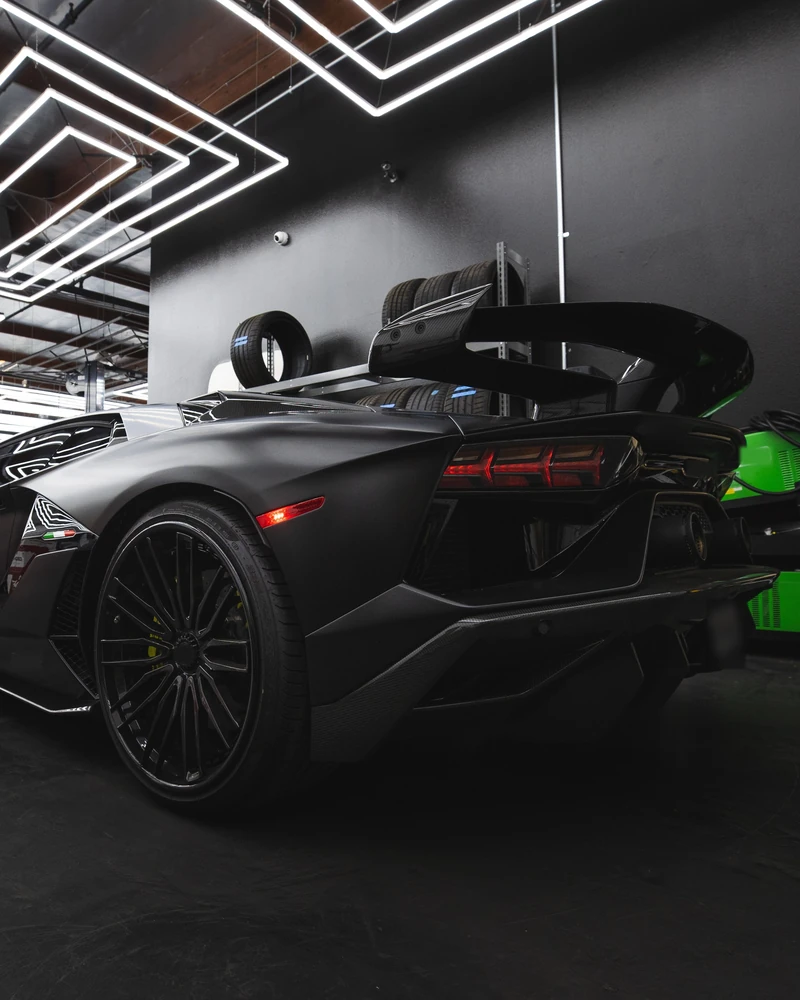
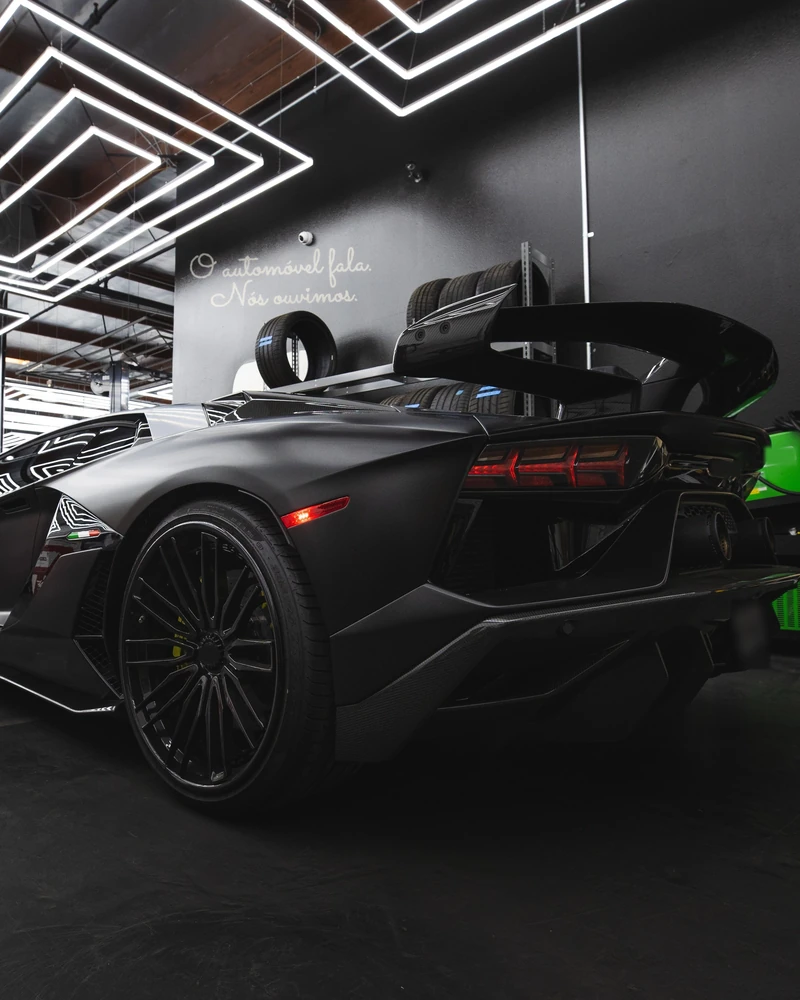
Página inicial: frase pintada na parede da fotografia
- A frase «O automóvel fala. Nós ouvimos.» passa a estar pintada na parede,
  entre a câmara e o pneu, em letra manuscrita clara (Sacramento, licença
  OFL), com a luz e a textura da parede (ferramentas/foto/frase_parede.py).
- O título continua no HTML para leitores de ecrã e motores de busca, mas
  já não aparece por cima da imagem (foto_inicio_frase = "imagem").
- Recorte ao alto deslocado para a esquerda: no telemóvel a frase fica com
  margem em relação à borda do ecrã.
- Licença da letra e alterações registadas em ferramentas/foto/LICENCAS.md.

Claude-Session: https://claude.ai/code/session_01EVRemCBBdboGg5SQBqamzr

diff --git a/site/index.html b/site/index.html
@@ -39,7 +39,7 @@
 </header>
 <main id="conteudo">
 
-<section class="abertura" data-frase="baixo" aria-labelledby="abertura-titulo">
+<section class="abertura" data-frase="imagem" aria-labelledby="abertura-titulo">
   <picture class="abertura-foto">
     <source media="(max-aspect-ratio: 1/1)" type="image/webp" srcset="/assets/fotos/inicio-estreito-800.webp 800w, /assets/fotos/inicio-estreito-1200.webp 1200w, /assets/fotos/inicio-estreito-1600.webp 1600w" sizes="(max-aspect-ratio: 4/5) 80vh, 100vw">
     <source media="(max-aspect-ratio: 1/1)" srcset="/assets/fotos/inicio-estreito-800.jpg 800w, /assets/fotos/inicio-estreito-1200.jpg 1200w, /assets/fotos/inicio-estreito-1600.jpg 1600w" sizes="(max-aspect-ratio: 4/5) 80vh, 100vw">
@@ -47,7 +47,7 @@
     <img src="/assets/fotos/inicio-1920.jpg" srcset="/assets/fotos/inicio-1280.jpg 1280w, /assets/fotos/inicio-1920.jpg 1920w, /assets/fotos/inicio-2560.jpg 2560w" sizes="(max-aspect-ratio: 3/2) 150vh, 100vw" alt="" fetchpriority="high" style="--foco: 50% 52%; --foco-estreito: 50% 55%">
   </picture>
   <div class="wrap">
-    <h1 id="abertura-titulo">O automóvel fala.<br> Nós ouvimos.</h1>
+    <h1 id="abertura-titulo" class="sr-only">O automóvel fala.<br> Nós ouvimos.</h1>
   </div>
 </section>
 </main>

diff --git a/ferramentas/foto/frase_parede.py b/ferramentas/foto/frase_parede.py
@@ -1,0 +1,99 @@
+#!/usr/bin/env python3
+"""Pinta a frase «O automóvel fala. Nós ouvimos.» na parede da fotografia da página inicial,
+como letra manuscrita a tinta clara, no espaço da parede entre a câmara de vigilância e o pneu.
+
+Uso: python3 ferramentas/foto/frase_parede.py LIMPA.jpg COM_FRASE.jpg
+Ordem completa: limpar_inicio.py -> frase_parede.py -> preparar.py (comando em limpar_inicio.py).
+
+A letra é a Sacramento (fontes/, licença SIL OFL 1.1 em fontes/OFL-Sacramento.txt), desenhada pelo
+Chrome (Playwright) e depois "pintada": bordas um pouco irregulares, névoa leve à volta, densidade
+variável, cor que segue a luz da parede e a textura da parede por baixo da tinta.
+As coordenadas são do original da Pexels (5472 x 3648 px). O resultado é sempre igual (semente fixa).
+"""
+import sys
+import tempfile
+from pathlib import Path
+
+import numpy as np
+from PIL import Image
+from playwright.sync_api import sync_playwright
+from scipy.ndimage import gaussian_filter, map_coordinates
+
+FONTE = Path(__file__).resolve().parent / "fontes" / "sacramento-latin-400-normal.woff2"
+LINHAS = ("O automóvel fala.", "Nós ouvimos.")
+X_ESQUERDA = 2170        # onde começa a frase (à direita da aresta da parede)
+Y_BASE = 1127            # ponto mais baixo da tinta (acima do pneu encostado à parede)
+LARGURA = 660            # largura da frase; a altura acompanha (cabe entre a câmara e o pneu)
+ANGULO = 2.5             # graus: a linha sobe ligeiramente para a direita, como escrita à mão
+COR = (240, 236, 228)    # branco quente, como tinta e não como luz
+OPACIDADE = 0.9
+NEVOA = 0.16             # tinta pulverizada à volta das letras
+SEMENTE = 7
+
+
+def desenhar_mascara(destino: Path, tamanho=200, traco=5, entrelinha=0.9, recuo=0.6):
+    """Frase a branco sobre fundo transparente, desenhada pelo Chrome (com a fonte e os seus acentos)."""
+    html = f"""<!doctype html><meta charset=utf-8><style>
+@font-face {{ font-family: f; src: url('{FONTE.as_uri()}'); }}
+html, body {{ margin: 0; background: transparent; }}
+#t {{ display: inline-block; padding: {tamanho * 0.4}px; font: {tamanho}px/{entrelinha} f; color: #fff;
+      -webkit-text-stroke: {traco}px #fff; white-space: nowrap; }}
+#t span {{ display: block; }} #t span + span {{ padding-left: {recuo}em; }}
+</style><div id=t><span>{LINHAS[0]}</span><span>{LINHAS[1]}</span></div>"""
+    pagina = destino.with_suffix(".html")
+    pagina.write_text(html, encoding="utf-8")
+    with sync_playwright() as p:
+        browser = p.chromium.launch(executable_path="/usr/bin/google-chrome")
+        pg = browser.new_page(viewport={"width": 4000, "height": 1500})
+        pg.goto(pagina.as_uri())
+        pg.wait_for_timeout(500)
+        pg.locator("#t").screenshot(path=str(destino), omit_background=True)
+        browser.close()
+
+
+def pintar(imagem: Image.Image, mascara: Image.Image) -> Image.Image:
+    rng = np.random.default_rng(SEMENTE)
+    m = mascara.getchannel("A")
+    m = m.crop(m.getbbox())
+    m = m.resize((LARGURA, round(m.height * LARGURA / m.width)), Image.LANCZOS)
+    m = m.rotate(ANGULO, resample=Image.BICUBIC, expand=True)
+    y0 = int(Y_BASE - m.height)
+    margem = 80
+    caixa = (X_ESQUERDA - margem, y0 - margem, X_ESQUERDA + m.width + margem, y0 + m.height + margem)
+    zona = np.asarray(imagem.crop(caixa)).astype(np.float32)
+    h, w, _ = zona.shape
+    M = np.zeros((h, w), np.float32)
+    M[margem:margem + m.height, margem:margem + m.width] = np.asarray(m, np.float32) / 255
+    # bordas um pouco irregulares, como tinta em spray
+    dy = gaussian_filter(rng.standard_normal((h, w)).astype(np.float32), 3) * 6
+    dx = gaussian_filter(rng.standard_normal((h, w)).astype(np.float32), 3) * 6
+    yy, xx = np.mgrid[0:h, 0:w].astype(np.float32)
+    M = map_coordinates(M, [yy + dy, xx + dx], order=1)
+    nucleo = np.clip((gaussian_filter(M, 1.3) - 0.08) / 0.84, 0, 1)
+    nevoa = gaussian_filter(M, 10) * NEVOA
+    densidade = 0.86 + 0.14 * np.clip(gaussian_filter(rng.random((h, w)).astype(np.float32), 20) * 8 - 3.5, 0, 1)
+    alfa = np.clip(nucleo * OPACIDADE * densidade + nevoa * (1 - nucleo), 0, 1)[..., None]
+    # a tinta recebe a mesma luz que a parede (mais escura na sombra) e deixa ver a textura
+    luz = gaussian_filter(zona.mean(axis=2), 35)[..., None]
+    textura = zona - np.stack([gaussian_filter(zona[..., c], 2.5) for c in range(3)], axis=2)
+    tinta = np.array(COR, np.float32) * np.clip(0.62 + 0.38 * luz / 200, 0.45, 1.05) + textura * 0.7
+    resultado = zona * (1 - alfa) + tinta * alfa
+    final = imagem.copy()
+    final.paste(Image.fromarray(np.clip(resultado, 0, 255).astype(np.uint8)), caixa[:2])
+    return final
+
+
+def main(origem, destino):
+    imagem = Image.open(origem).convert("RGB")
+    with tempfile.TemporaryDirectory() as pasta:
+        ficheiro = Path(pasta) / "frase.png"
+        desenhar_mascara(ficheiro)
+        mascara = Image.open(ficheiro)
+        mascara.load()
+    pintar(imagem, mascara).save(destino, quality=95)
+
+
+if __name__ == "__main__":
+    if len(sys.argv) < 3:
+        sys.exit(__doc__)
+    main(sys.argv[1], sys.argv[2])

diff --git a/build.py b/build.py
@@ -37,12 +37,13 @@ DADOS = {
     "nipc": "505743973",
     "desde": 2001,          # ano em que a empresa entrou no mercado; os anos contam-se até YEAR
     "foto_inicio": "fotos/inicio",  # imagem da página inicial: Pexels n.º 8664308 (licença e alterações em
-                                    # ferramentas/foto/LICENCAS.md), limpa por limpar_inicio.py e preparada
-                                    # por preparar.py; vazio = aparece a amarelo
+                                    # ferramentas/foto/LICENCAS.md), limpa por limpar_inicio.py, com a frase
+                                    # pintada por frase_parede.py e preparada por preparar.py; vazio = aparece a amarelo
     "foto_inicio_foco": "50% 52%",  # ponto da imagem que fica sempre à vista (object-position)
     "foto_inicio_foco_estreito": "50% 55%",  # o mesmo, em ecrãs ao alto (telemóvel); com recorte ao alto
                                              # (preparar.py --estreito), é a posição dentro do recorte
-    "foto_inicio_frase": "baixo",   # onde fica a frase: "cima" (zona escura, à esquerda) ou "baixo"
+    "foto_inicio_frase": "imagem",  # onde fica a frase: "imagem" (pintada na parede da fotografia; o título
+                                    # fica só para leitores de ecrã), "cima" ou "baixo" (texto sobre a imagem)
     "morada": "Rua do Morangal, n.º 205, Traseiras, Fração S, 4410-385 Vila Nova de Gaia",  # sede
     "conservatoria": "Vila Nova de Gaia",  # Conservatória do Registo Comercial onde a sociedade está matriculada
     "prazo_pedidos": "1 mês",    # conservação de pedidos sem seguimento
@@ -501,11 +502,16 @@ def foto_inicio_html():
 
 def body_index(preview):
     """Página inicial: uma fotografia em ecrã inteiro e uma frase. O resto está nos separadores da barra."""
-    frase = "cima" if DADOS.get("foto_inicio_frase") == "cima" else "baixo"
+    frase = DADOS.get("foto_inicio_frase")
+    if frase not in ("imagem", "cima", "baixo"):
+        frase = "baixo"
+    # Com a frase pintada na fotografia, o título continua no HTML (leitores de ecrã, motores de busca),
+    # mas não aparece por cima da imagem. Sem fotografia, aparece sempre.
+    oculto = ' class="sr-only"' if frase == "imagem" and DADOS["foto_inicio"] else ""
     return f"""<section class="abertura" data-frase="{frase}" aria-labelledby="abertura-titulo">
   {foto_inicio_html()}
   <div class="wrap">
-    <h1 id="abertura-titulo">O automóvel fala.<br> Nós ouvimos.</h1>
+    <h1 id="abertura-titulo"{oculto}>O automóvel fala.<br> Nós ouvimos.</h1>
   </div>
 </section>"""
 

diff --git a/ferramentas/foto/limpar_inicio.py b/ferramentas/foto/limpar_inicio.py
@@ -4,8 +4,9 @@ as matrículas e a marca das máquinas de soldar. A licença da Pexels não cobr
 que a marca do carro está associada à GARC.
 
 Uso: python3 ferramentas/foto/limpar_inicio.py ORIGINAL.jpg LIMPA.jpg
-Depois: python3 ferramentas/foto/preparar.py LIMPA.jpg inicio --estreito 1570,0,4488,3648
-(o recorte ao alto, 4:5, é o que aparece nos telemóveis)
+Depois: python3 ferramentas/foto/frase_parede.py LIMPA.jpg COM_FRASE.jpg
+        python3 ferramentas/foto/preparar.py COM_FRASE.jpg inicio --estreito 1480,0,4398,3648
+(o recorte ao alto, 4:5, é o que aparece nos telemóveis; deixa margem à esquerda da frase)
 As coordenadas são do original da Pexels (5472 x 3648 px).
 """
 import sys

diff --git a/CLAUDE.md b/CLAUDE.md
@@ -5,7 +5,7 @@
 - Alojamento: cPanel da Dominios.pt (Apache, PHP, MySQL), domínio www.autosolutions.pt. `site/` vai para `public_html`; `app/` fica fora de `public_html` (`.cpanel.yml`).
 - API da área de cliente: `app/` (PHP 8.1+, MySQL, migrações em `app/migracoes/`), entrada em `src/api/index.php`. Usar só GET e POST (os alojamentos partilhados bloqueiam muitas vezes PUT e DELETE). Os testes estão em `tests/` e devem passar antes de cada commit que toque na API.
 - Dados da empresa: dicionário `DADOS` em `build.py`. Preço do token: `TOKEN_EUR`; tokens descontados no envio: `TOKENS_MINIMO` (o custo final de cada pedido é definido no painel). Os campos vazios aparecem a amarelo e o build lista-os no fim; o cartão (`stripe`) e o PayPal (`paypal`, nome no PayPal.Me) ficam ocultos enquanto estiverem vazios, e o build também os lista. A morada da sede e a conservatória aparecem só na identificação legal (rodapé, privacidade e termos), não nos contactos, porque o serviço é online; o capital social não aparece, por decisão da empresa; a loja está oculta.
-- Página inicial: um só ecrã com a fotografia (`DADOS["foto_inicio"]`, preparada por `ferramentas/foto/preparar.py` em `src/assets/fotos/`, com recorte ao alto para telemóveis; origem, licença e alterações da imagem em `ferramentas/foto/LICENCAS.md`: só imagens com licença, sem marcas visíveis) e a frase «O automóvel fala. Nós ouvimos.»; sem contactos nem conteúdos dos separadores, e com o rodapé só com as ligações legais (o acesso ao Livro de Reclamações Eletrónico tem de estar visível). As secções que saíram estão em `seccoes_reservadas()`. A barra não tem botão de enviar ficheiro: o envio faz-se dentro da área de cliente.
+- Página inicial: um só ecrã com a fotografia (`DADOS["foto_inicio"]`, preparada por `ferramentas/foto/preparar.py` em `src/assets/fotos/`, com recorte ao alto para telemóveis; origem, licença e alterações da imagem em `ferramentas/foto/LICENCAS.md`: só imagens com licença, sem marcas visíveis) e a frase «O automóvel fala. Nós ouvimos.», pintada na parede da fotografia por `ferramentas/foto/frase_parede.py` (o `h1` fica só para leitores de ecrã); sem contactos nem conteúdos dos separadores, e com o rodapé só com as ligações legais (o acesso ao Livro de Reclamações Eletrónico tem de estar visível). As secções que saíram estão em `seccoes_reservadas()`. A barra não tem botão de enviar ficheiro: o envio faz-se dentro da área de cliente.
 - Páginas «Sobre» (`body_sobre()`: só informação, sem botões; texto a rever pelo Raul) e «Contacto» (`body_contacto()`: só o formulário, que envia para `/api/contacto`, sem WhatsApp nem horário; `contacto?assunto=…` preenche o assunto). O horário de atendimento aparece só em Serviços; Preços e Termos remetem para lá. Os rodapés têm só a parte legal. O botão fixo do WhatsApp não aparece em Início, Sobre, Contacto nem no painel (`"whatsapp": False` em `PAGES`).
 - Logótipo: `src/logo-cabecalho.html` (cabeçalho, cores pelas variáveis `--logo-*`) e `src/assets/logo-garc.svg`, gerados por `ferramentas/logo/` a partir do PNG original. Os botões e as faixas usam o azul do logótipo (`#012559`).
 - Ligações internas e caminhos de recursos passam por `url()` e `asset()`: relativos e com `.html` na pré-visualização, absolutos e sem `.html` no site publicado (o `.htaccess` faz a correspondência).

diff --git a/ferramentas/foto/LICENCAS.md b/ferramentas/foto/LICENCAS.md
@@ -8,10 +8,17 @@
   representada está associada ao site.
 - Alterações feitas para o site (`limpar_inicio.py`): retirados os emblemas das jantes, a inscrição da
   marca na traseira, a placa lateral com o modelo, as duas matrículas e a marca das máquinas de soldar;
-  tamanhos e recorte ao alto para telemóveis gerados por `preparar.py` (comando em `limpar_inicio.py`).
+  frase «O automóvel fala. Nós ouvimos.» pintada na parede (`frase_parede.py`); tamanhos e recorte ao
+  alto para telemóveis gerados por `preparar.py` (comandos em `limpar_inicio.py`).
   O site não menciona a marca do carro.
 - Ficheiro original: `pexels-svjae-8664308.jpg` (5472 x 3648 px), escolhido pelo Raul em novembro de 2026.
 
 ## Imagem alternativa (`gerar_inicio.py`)
 
 - Desenho original gerado por código (coupé inventado). Sem direitos de terceiros. Não está em uso.
+
+## Letra da frase pintada na parede (`fontes/`)
+
+- Sacramento, de Brian J. Bonislawsky (Astigmatic), obtida pelo pacote Fontsource.
+- Licença: SIL Open Font License 1.1 (`fontes/OFL-Sacramento.txt`), que permite usar a letra em imagens,
+  incluindo para fins comerciais.
